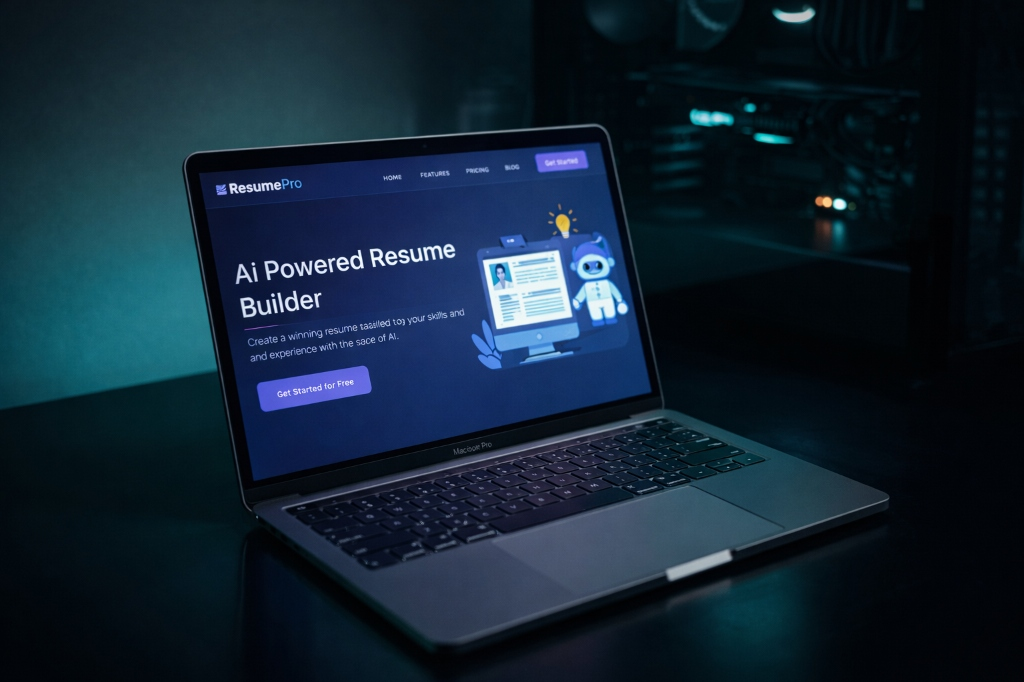
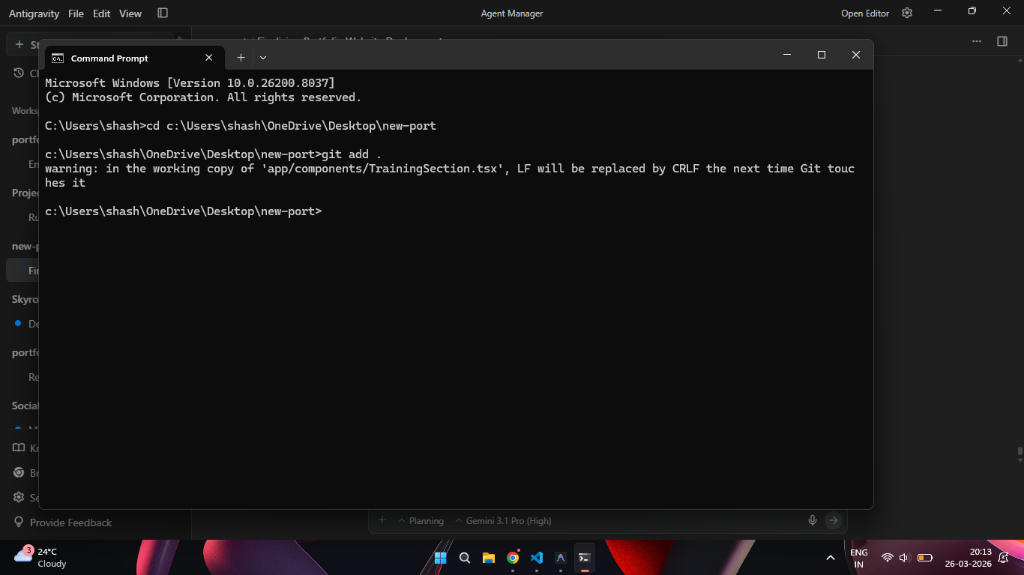
Update ResumePro mockup image and ScriptXP description

diff --git a/app/components/ProjectsSection.tsx b/app/components/ProjectsSection.tsx
@@ -26,6 +26,17 @@ const projects = [
         live: "https://resumepro-ai-resume-builder.vercel.app/",
         source: "https://github.com/shashihere/ResumePro--AI-Resume-Builder",
     },
+    {
+        tag: "DEV TOOLS",
+        subtitle: "GAMIFIED LEARNING PLATFORM | MAR’26",
+        title: "ScriptXP",
+        description:
+            "Developed a full-stack MERN application (MongoDB, Express.js, React, Node.js) with responsive UI and efficient RESTful APIs for seamless client-server interaction. Implemented secure authentication, database integration, and optimized performance, ensuring smooth user experience and scalable architecture.",
+        image: "/scriptxp-mockup.jpg",
+        tech: ["REACT.JS", "NODE.JS", "MONGODB", "EXPRESS.JS", "AXIOS"],
+        live: "https://script-xp.vercel.app/",
+        source: "https://github.com/shashihere/ScriptXP",
+    },
 ];
 
 export default function ProjectsSection() {
